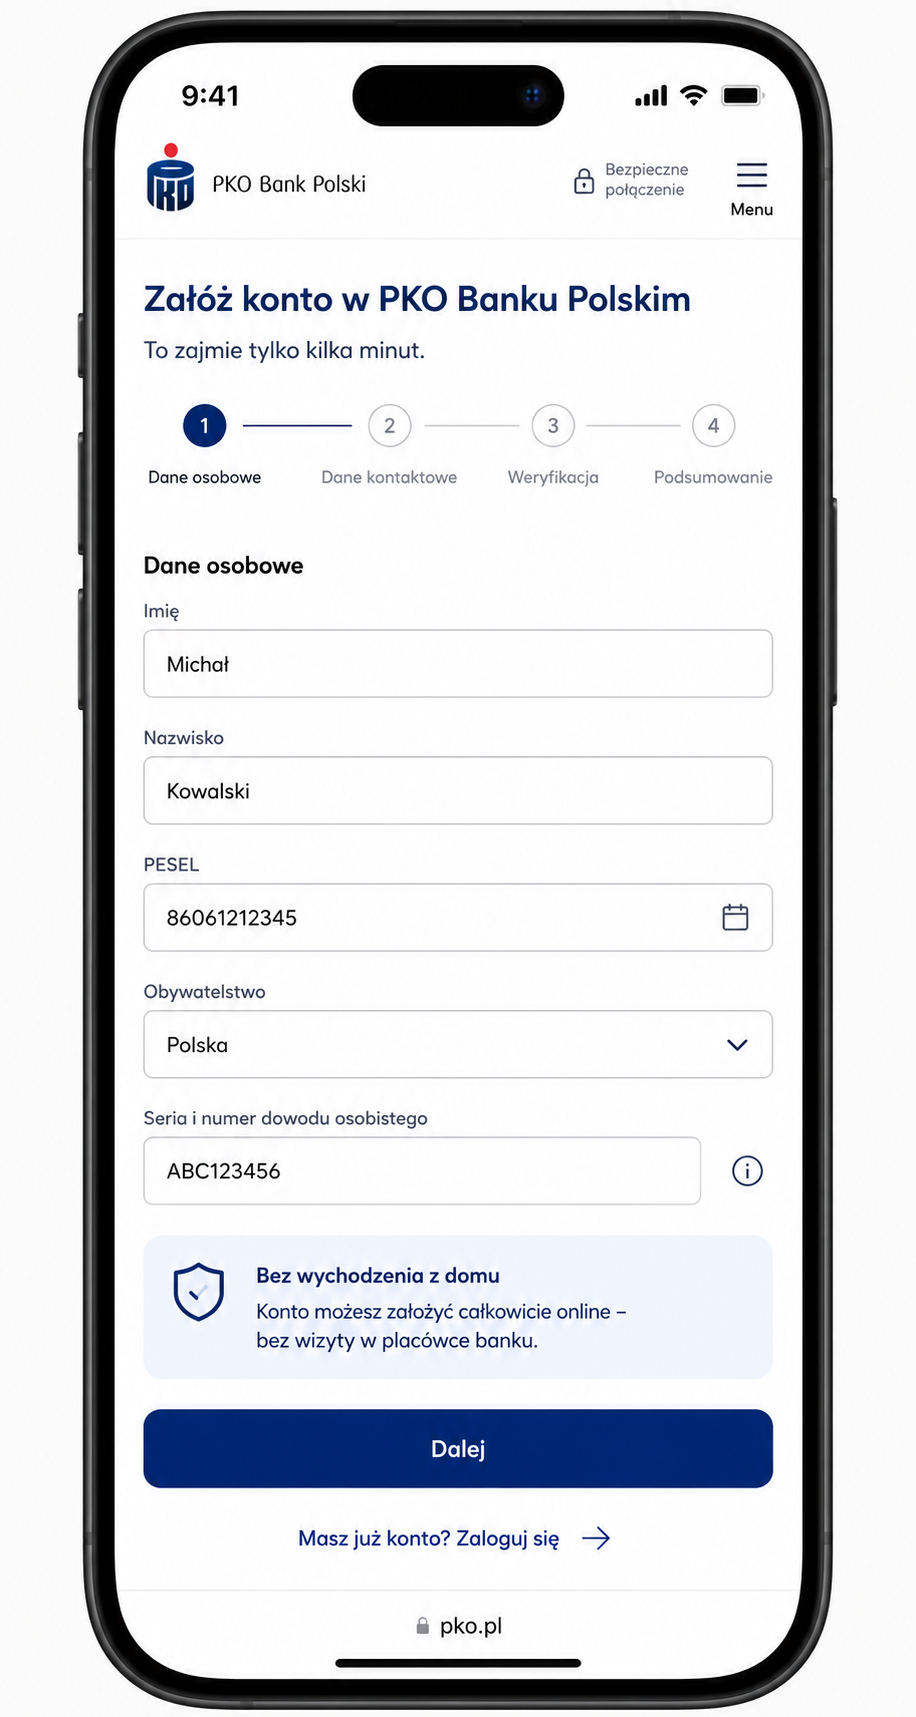
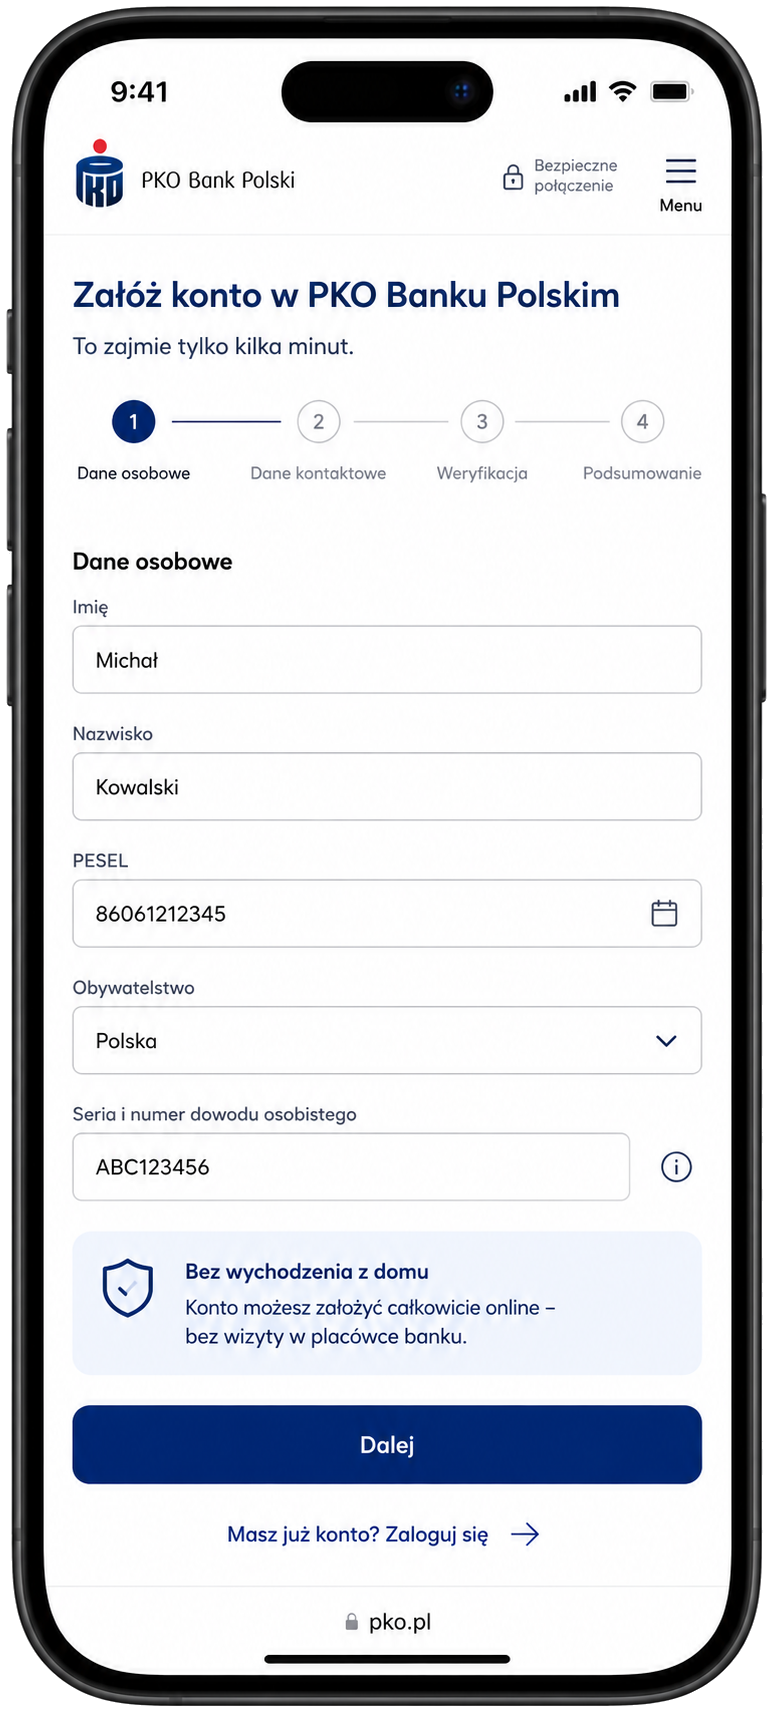
Remove white backgrounds from two Michal screenshots, upgrade confirmation visual, rewrite rich-profile slide copy
Account-signup and account-confirmation screenshots had visible white
frames/corners around the phone mockup - both now cropped tight with
transparent backgrounds. Confirmation slide also swapped from the
screen-product (browser-window) container to screen-device/device-shot to
match its new phone-bezel screenshot, and the now-unused product-shot CSS
override for that slide was removed. Rich-profile slide (STEP 9) copy
rewritten per feedback with a clearer two-paragraph narrative.

diff --git a/index.html b/index.html
@@ -158,9 +158,6 @@ html,body{width:100%;height:100%;margin:0;overflow:hidden;background:#0a1628;fon
 .slide.acq-broadcast .screen.screen-product .product-shot-wrap{width:100%;height:100%;display:flex;align-items:center;justify-content:center;}
 .slide.michal-anon-profile .screen{top:274px;height:534px;}
 .slide.michal-web-dashboard .screen{top:206px;height:671px;}
-.slide.michal-confirmation .screen.screen-product{top:56px;bottom:56px;}
-.slide.michal-confirmation .screen.screen-product .product-shot-wrap{width:auto;height:100%;max-height:100%;}
-.slide.michal-confirmation .screen.screen-product .product-shot{width:auto;height:100%;max-height:100%;object-fit:contain;}
 .slide.michal-confirmation .story{top:88px;}
 .slide.michal-confirmation .story .htitle{font-size:44px;margin:14px 0 8px;line-height:1.08;}
 .slide.michal-confirmation .story .profilebar{margin-bottom:12px;}
@@ -370,7 +367,7 @@ html,body{width:100%;height:100%;margin:0;overflow:hidden;background:#0a1628;fon
     <div class="quote a4">"Zyskuj więcej z Allegro Klik — cashback do 3% i dodatkowe korzyści na Allegro."</div>
     <div class="claudia-lab a4">Ekran Eweliny</div>
     <div class="prodcard a5">Experience Decisioning wykorzystuje kontekst kampanii i dostępne sygnały, aby dobrać właściwy wariant treści, korzyści i CTA — bez budowania osobnego landing page'a dla każdego scenariusza.</div>
-    <div class="takeaway a5">Jeden landing. Treść dopasowana do kontekstu każdej wizyty.</div>
+    <div class="takeaway a5">Ta sama strona. Treść dopasowana do klienta i kontekstu.</div>
   </div>
   <div class="screen screen-device a3">
     <div class="device-shot-wrap">
@@ -438,9 +435,9 @@ html,body{width:100%;height:100%;margin:0;overflow:hidden;background:#0a1628;fon
     <div class="prodcard a5">Konwersja aktualizuje profil i kontekst w czasie rzeczywistym. Michał przestaje być prospectem, więc zmienia się także rekomendacja: z "załóż konto" na "pobierz IKO".</div>
     <div class="takeaway a5">Konwersja nie kończy personalizacji — uruchamia kolejny najlepszy krok.</div>
   </div>
-  <div class="screen screen-product a3">
-    <div class="product-shot-wrap">
-      <img class="product-shot" src="assets/michal-account-confirmation.png" alt="pko.pl — Gratulacje, Michał! Twoje konto zostało otwarte i Allegro Klik jest już aktywny">
+  <div class="screen screen-device a3">
+    <div class="device-shot-wrap">
+      <img class="device-shot" src="assets/michal-account-confirmation.png" alt="pko.pl — Gratulacje, Michał! Twoje konto zostało otwarte i Allegro Klik jest już aktywny">
     </div>
   </div>
   <div class="persona a5"><div class="av" style="background:linear-gradient(150deg,var(--navy),#04101f);">M</div><div class="nm">Michał</div></div>
@@ -501,10 +498,11 @@ html,body{width:100%;height:100%;margin:0;overflow:hidden;background:#0a1628;fon
   <div class="phase-pill a1">01 · Pozyskanie</div>
   <div class="story a1">
     <div class="numdisc a1">9</div>
-    <h2 class="htitle a2">Bogaty profil Michała</h2>
-    <p class="narr a3">Zunifikowany profil: 6 audiencji, 18 atrybutów, 6 tożsamości w jednym Identity Graph. Michał należy do segmentu <strong>Klienci bez wpływu wynagrodzenia</strong> — stąd wynik <strong>87% Likelihood to Engage</strong> dla oferty "Przeniesienie wynagrodzenia", którą widział w IKO i na pkobp.pl. Ewelina widzi jednego klienta, nie silosy kanałowe.</p>
+    <h2 class="htitle a2">Pełny obraz Michała</h2>
+    <p class="narr a3">Po identyfikacji wszystkie dotychczasowe sygnały łączą się w jeden profil klienta — od wcześniejszych interakcji i przynależności do grup odbiorców po dane produktowe i aktywność w kanałach PKO: 6 audiencji, 18 atrybutów, 6 tożsamości w jednym Identity Graph.</p>
+    <p class="narr a3">Bank widzi już nie pojedyncze interakcje, ale pełny kontekst Michała, który może wykorzystać przy kolejnej decyzji — jak segment <strong>Klienci bez wpływu wynagrodzenia</strong> ze score <strong>87% Likelihood to Engage</strong> dla oferty "Przeniesienie wynagrodzenia".</p>
     <div class="claudia-lab a4">Ekran Eweliny</div>
-    <div class="takeaway a5">Jeden profil od anonimowego kliknięcia po aktywnego posiadacza karty.</div>
+    <div class="takeaway a5">Rozpoznaj Michała — nie tracąc wcześniejszego kontekstu.</div>
   </div>
   <div class="screen a3"><div class="browser"><div class="bbar"><span class="d"></span><span class="d"></span><span class="d"></span><span class="u">experience.adobe.com/profile/michal-kowalski</span></div><div class="mockbody"><img src="assets/michal-rich-profile.png" alt="Adobe Experience Platform — bogaty profil Michała Kowalskiego, 6 audiencji, 18 atrybutów, propensity scores"></div></div></div>
   <div class="persona a5"><div class="av" style="background:linear-gradient(150deg,var(--red),var(--red-dk));">E</div><div class="nm">Ewelina</div></div>
